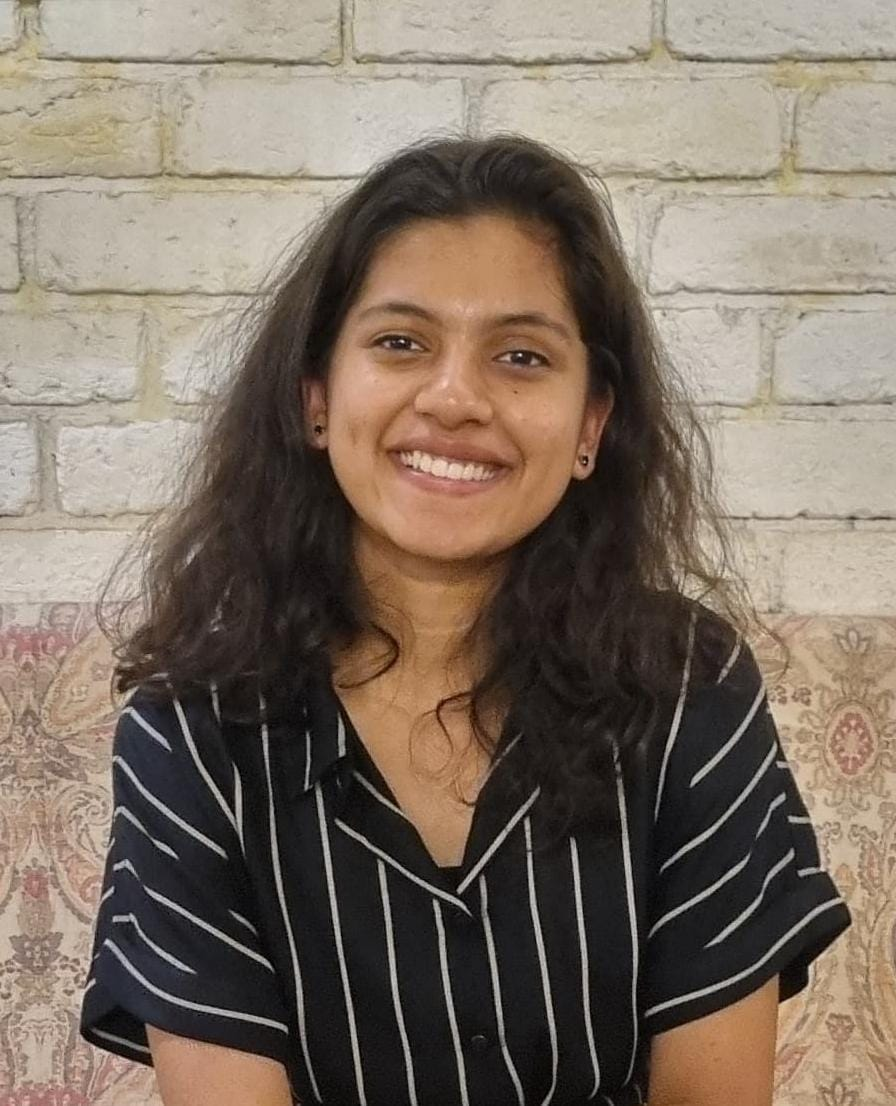
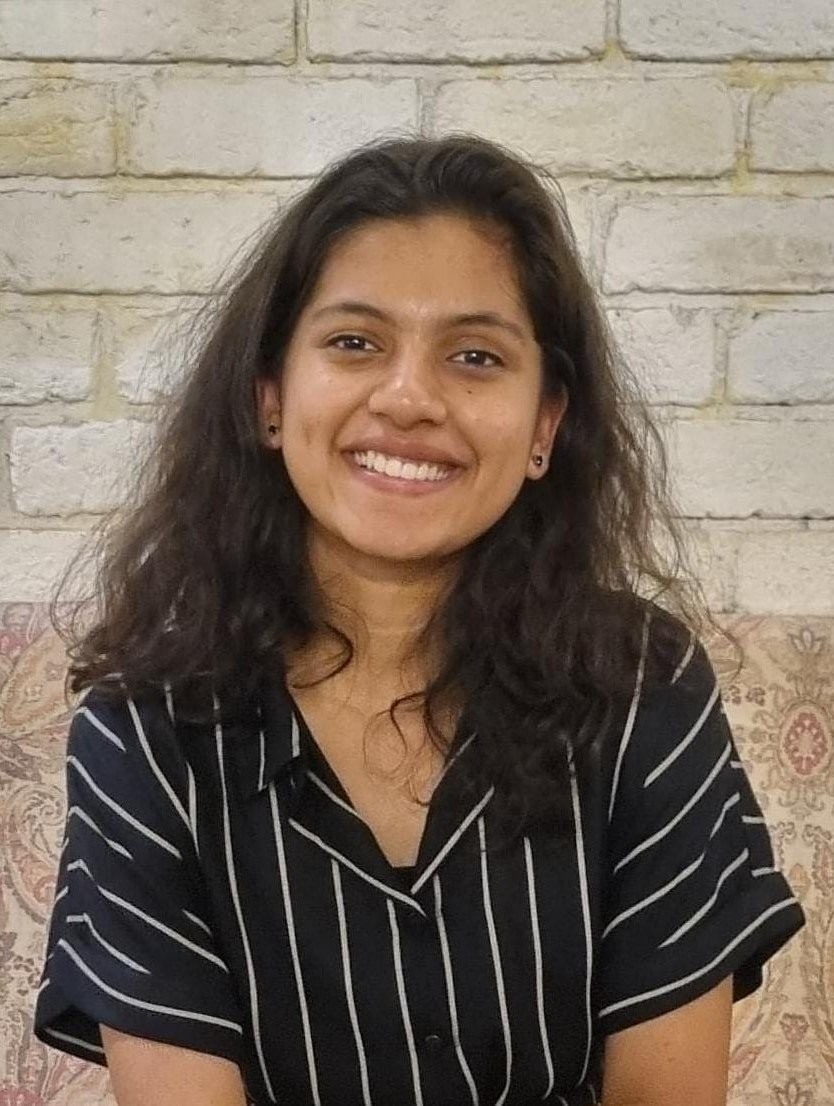
after anvita

diff --git a/anvita.html b/anvita.html
@@ -1,0 +1,130 @@
+<!DOCTYPE html>
+<html lang="en">
+<head>
+    <meta name= "viewport" content="width=device-width, user-scalable=1;">
+    <script type="module" src="https://unpkg.com/ionicons@7.1.0/dist/ionicons/ionicons.esm.js"></script>
+    <script nomodule="" src="https://unpkg.com/ionicons@7.1.0/dist/ionicons/ionicons.js"></script>
+    <title>ChEA-IITB</title>
+    <link rel="stylesheet" href="gauri_sonawane.css">
+    <link href='https://fonts.googleapis.com/css?family=Varela Round' rel='stylesheet'>
+    <style>
+        .blog-container p{ 
+        font-family:valera;
+        }
+        @font-face {
+            font-family: tesla;
+            src: url('TESLA.ttf');
+        }
+        .blogs span{
+            font-family: tesla;
+        }
+    </style>
+</head>
+<body>
+    <div class="main">
+        <div class="navbar">
+            <div class="icon">
+                <h2 class="logo"><a href="index.html"><img src="cheaorange.png"  height="93" width="131"/></a></h2>
+            </div>
+            <header>
+              <div class="menu">
+                <ul class="nav-menu" >
+                    <li class="nav-item" id="home"><a href="index.html" class="nav-link">HOME</a></li>
+                    <li class="nav-item" id="events"><a href="events25.html" class="nav-link">EVENTS</a></li>
+                    <li class="nav-item" id="blogs"><a href="blogs1.html"
+                    class="nav-link">BLOGS</a></li>
+                    <li class="nav-item" id="publications"><a href="publications25.html" class="nav-link">PUBLICATIONS</a></li>
+                    <li class="nav-item" id="links"><a href="links.html" class="nav-link">LINKS</a></li>
+                    <li class="nav-item" id="contacts"><a href="contacts25.html" class="nav-link">CONTACT</a></li>
+                    <li class="nav-item" id="facad"><a href="facad24.html" class="nav-link">FACAD</a></li>
+                </ul>
+                <div class="hamburger">
+                    <span class="bar"></span>
+                    <span class="bar"></span>
+                    <span class="bar"></span>
+                </div>
+              </div>
+            </header>
+            <script src="index.js"></script>
+    </div>
+        <section class="blogs" id="blog">
+                <h2>ChEA<span> BLOGS</span></h2>
+                <div class="blogs-layer">
+                            <h4>Anvitaa Goel | JM Financial </h4>
+                        </div>
+                <div class="blog-container">
+                        <img src="anvita.png">
+                        <!-- <p> <b> Q1 How did you find and secure your 2nd-year summer internship? (Cold emails, LinkedIn, references, campus resources, etc.)
+</b>
+I was referred for this intern position by an employee of RIL.</p>
+-->            
+</div> 
+                <div class="blog-c1">
+                    <p>Hi! I am Anvitaa, a third-year Chemical Engineering student, pursuing a minor in Management. I am from Delhi.
+</p>
+                        <p>
+<b> What was your motivation for the internship and what was the recruitment process like? Why did you chose to do an internship instead of other options, such as projects or bootcamp? How did you prep for this role?
+
+</b><br>
+
+There were several motivating factors for this internship:
+-I wanted to explore the intersection of chemical core with finance
+-As a result of this, equity research in chemicals aligned perfectly with my interest
+
+I had to give an online interview; it was mostly resume based along with a few basic finance related questions focused on financial ratios and financial statements.
+
+ </p>
+ <p>
+    <b>Did you get this internship via apping? If yes, highlight the apping process.
+</b><br>
+    No
+
+   <!-- <br>  During my internship, I worked on designing heat exchangers and batch distillation columns, selecting a suitable coolant for an exothermic reaction, and researching on ways to minimize solvent wastage through Literature Review. I also visited many plants and learned about various equipment. -->
+    </p>
+ <p>
+    <b>
+       Can you explain your role in the internship? What jobs were you expected to perform and what projects were you involved with?
+
+  </b><br>
+  My domain was "Equity Research in Chemicals". I applied the discounted cash flow method to find the inherent value of companies. I analyzed the annual reports to assess relative financial performance. I carried out market research on the fluoropolymers segment. 
+
+   <p>
+    <b>
+        What were the most exciting aspects of the internship? What were the most challenging aspects?
+</b><br>
+    
+The most exciting part was picking up something new everyday from someone in the office, while doing some real, concrete work, and not just theory. Initially, travel to the office was a bit challenging. Having said that, commuting did become very convenient with the newly opened Metro Aqualine. 
+<p>
+    <b>
+        What was the culture like in your office? How did the company treat the interns and what were you provided with?
+
+    </b><br>
+   
+The company did not have too  many interns from a BTech background. In fact, I was one of the youngest people in the office! Everyone took a lot of efforts to educate me in one thing or another, be it related to finance, the corporate world, or life skills in general! Overall, the office culture was incredibly supportive and encouraging.
+<p>
+    <b>
+         What were your key learnings from the internship and any tips you would like to give to your juniors?
+<br> </b>
+  The internship helped me clearly identify and confirm my interest in the finance sector. I feel one should choose an internship in the 2nd year that helps explore or eliminate a sector. For this reason, I believe that second year internships are more than just resume points. One of the most valuable things I learnt was patience; things don't always work out at first and one may feel stuck; in such situations it is important to just stay optimistic, be patient, trust the process. Things eventually work out! 
+<p>
+<b>
+    Contact Details
+</b><br>
+8860751667
+
+<br></p>
+                    </div>
+                     <div class="form">
+            
+            <div class="icons">
+                <a href="https://www.facebook.com/cheaiitb"><ion-icon name="logo-facebook"></ion-icon></a>
+                <a href="https://instagram.com/chea_iitb?utm_medium=copy_link"><ion-icon name="logo-instagram"></ion-icon></a>
+                <a href="https://www.linkedin.com/company/chea-iit-bombay/"><ion-icon name="logo-linkedIn"></ion-icon></a>
+                <a href="https://www.youtube.com/@chemicalengineeringassocia2744/about"><ion-icon name="logo-youtube"></ion-icon></a>
+                <a href="https://wa.me/qr/2QMQELB2RFMUM1"><ion-icon name="logo-whatsapp"></ion-icon></a>
+            </div>
+            <h2>Website maintained by <img src="cheaorange.png" height="98" width="132"/></h2>
+        </div>
+    </div>
+</body>
+</html>

diff --git a/internera25.html b/internera25.html
@@ -75,6 +75,13 @@
                             <button class="cn"><a href="harsh_jadhav.html">View More</a></button>
                         </div>
                     </div>
+                    <div class="events-box">
+                        <img src="anvitaa_goel.jpg">
+                        <div class="events-layer">
+                            <h4> Anvitaa Goel | JM Financial</h4>
+                            <button class="cn"><a href="anvita.html">View More</a></button>
+                        </div>
+                    </div>
                 </div>
         </section>
         <div class="form">
